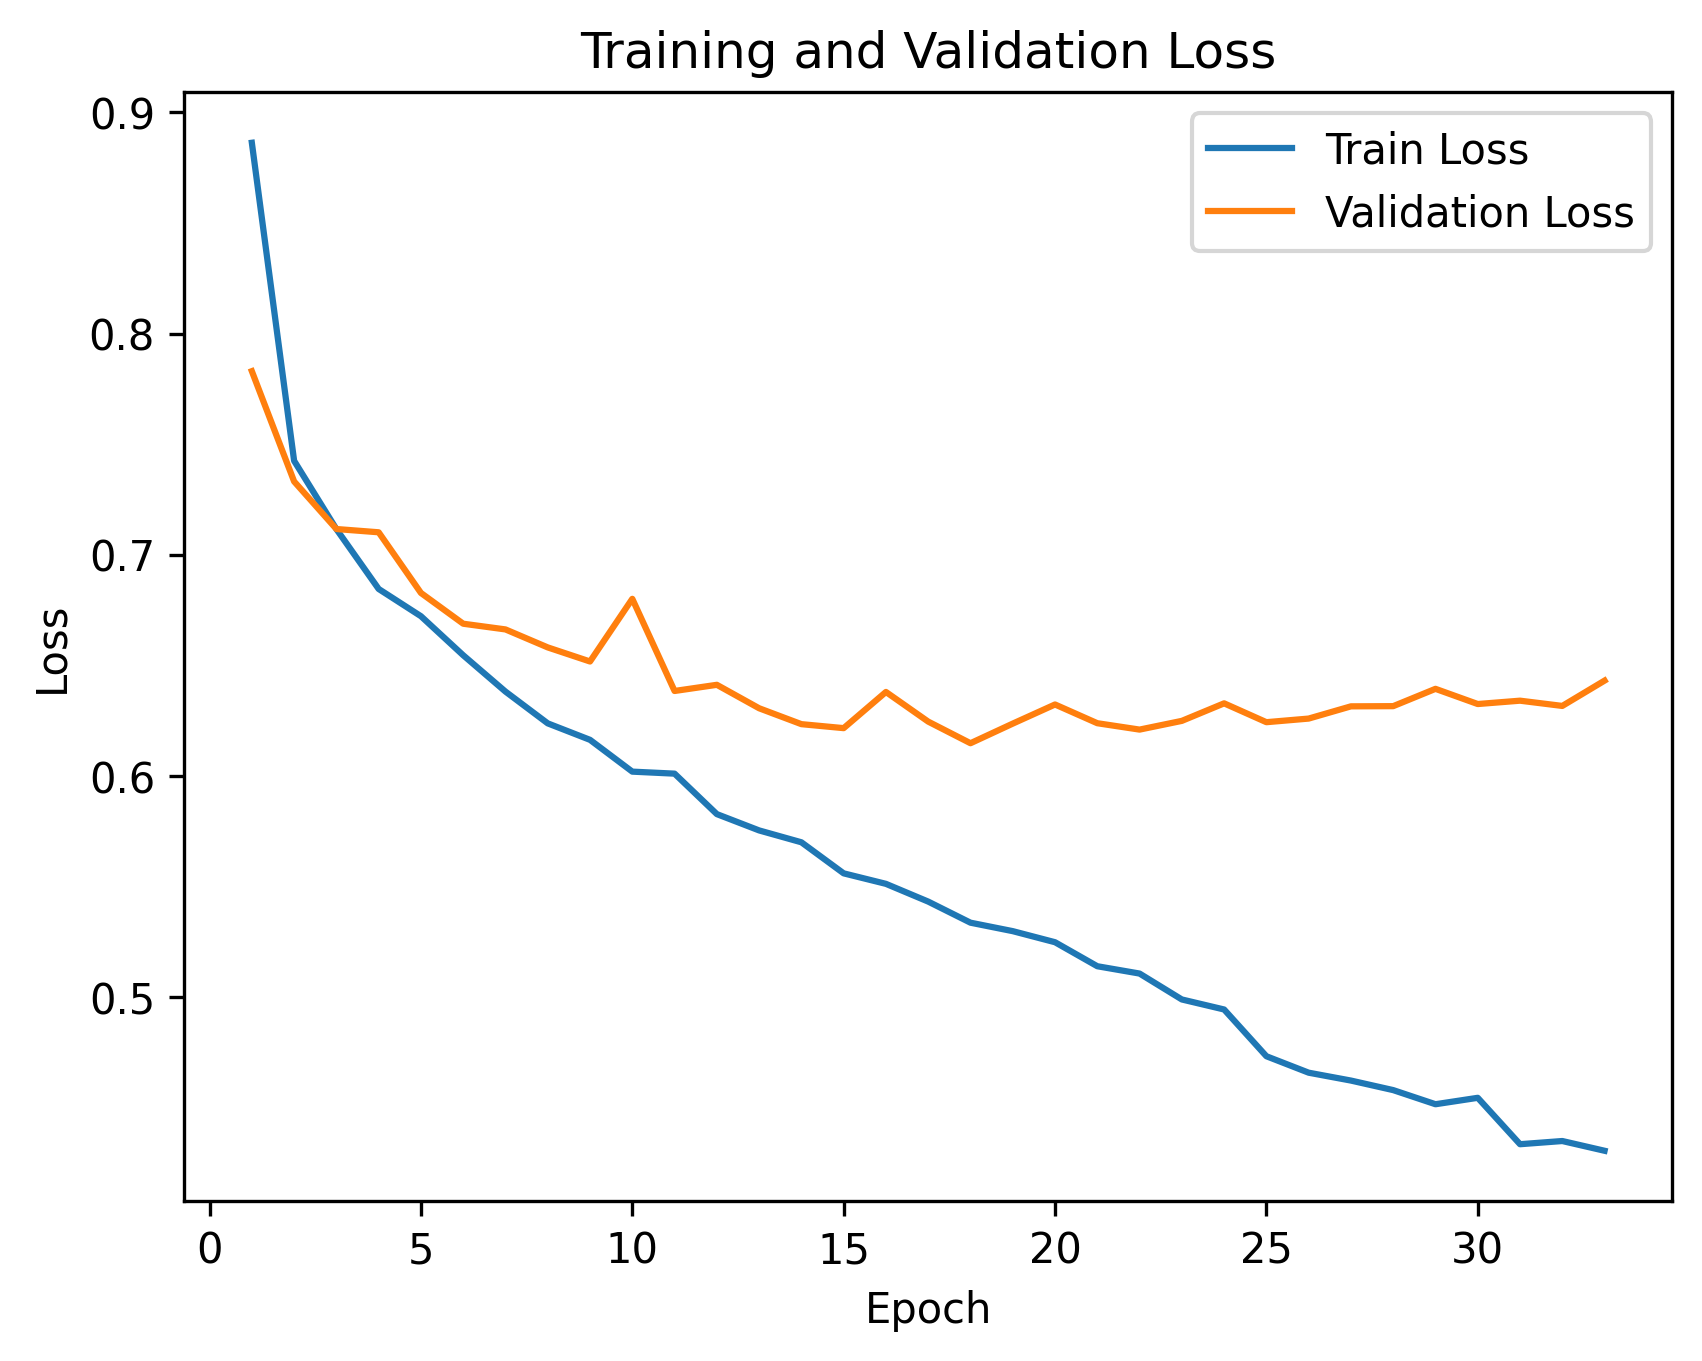
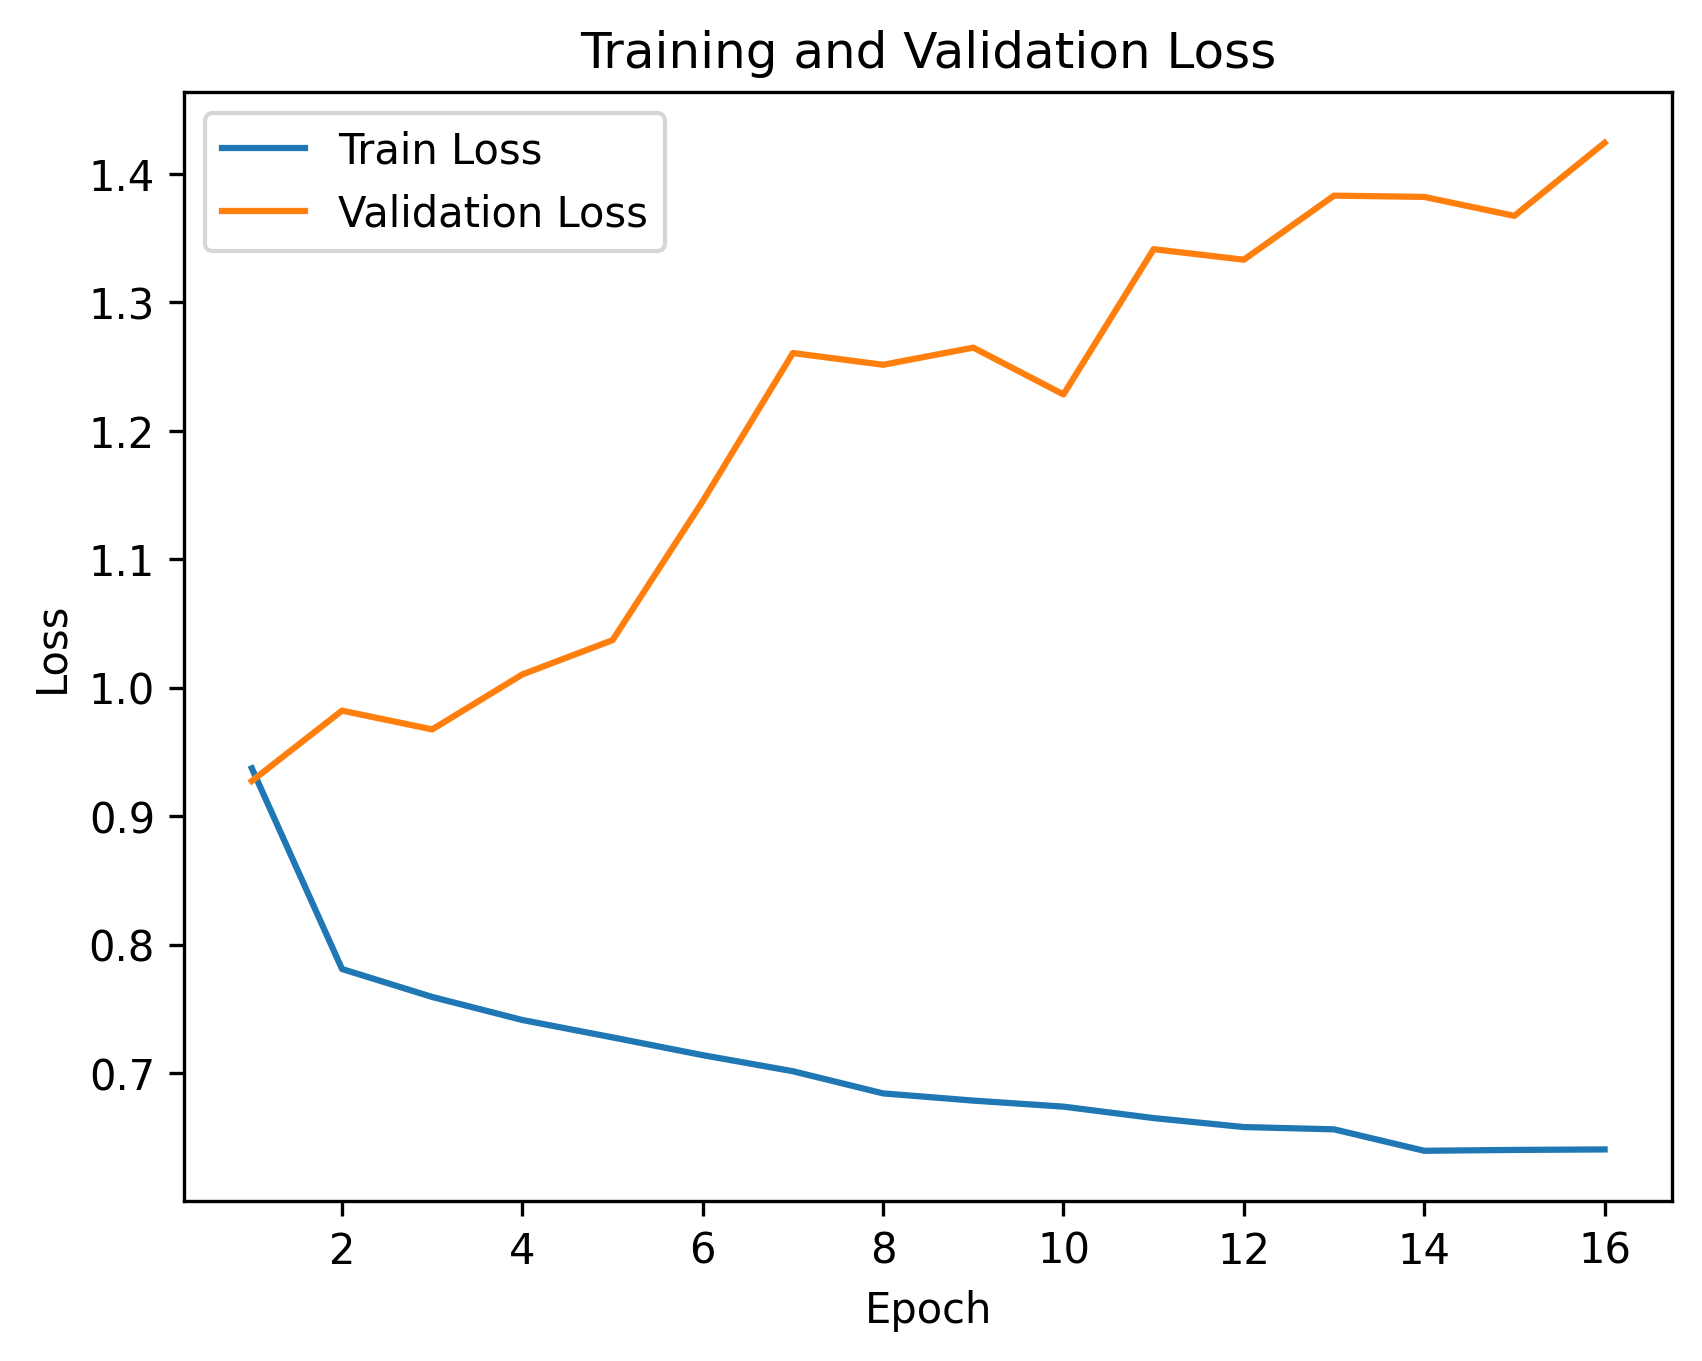
fixed dataaugmentation

diff --git a/data_preprocessing.py b/data_preprocessing.py
@@ -128,16 +128,24 @@ class NoiseDataset(Dataset):
         path, label = self.samples[idx]
         try:
             waveform = load_and_resample(path, self.cfg)
+            waveform = pad_or_trim(waveform, self.cfg)   # ← trim FIRST to fixed length
 
             if self.mode == "train":
-                waveform = augment_time_stretch(waveform, rate=1.5)   # changes length → trim after
-                waveform = augment_pitch_shift(waveform, self.cfg, n_steps=2)
+                # Apply each augmentation randomly, not always
+                if random.random() < 0.5:
+                    rate = random.uniform(0.9, 1.1)      # ← subtle range, not 1.5
+                    waveform = augment_time_stretch(waveform, rate=rate)
+                    waveform = pad_or_trim(waveform, self.cfg)  # re-trim after stretch
 
-            waveform = pad_or_trim(waveform, self.cfg)                # now safe to trim/pad
+                if random.random() < 0.5:
+                    n_steps = random.choice([-2, -1, 1, 2])
+                    waveform = augment_pitch_shift(waveform, self.cfg, n_steps=n_steps)
 
-            if self.mode == "train":
-                waveform = augment_volume(waveform)
-                waveform = augment_additive_noise(waveform)           # after pad so shape is fixed
+                if random.random() < 0.5:
+                    waveform = augment_volume(waveform)
+
+                if random.random() < 0.3:
+                    waveform = augment_additive_noise(waveform)
 
             spec = self.mel_transform(waveform)
 
